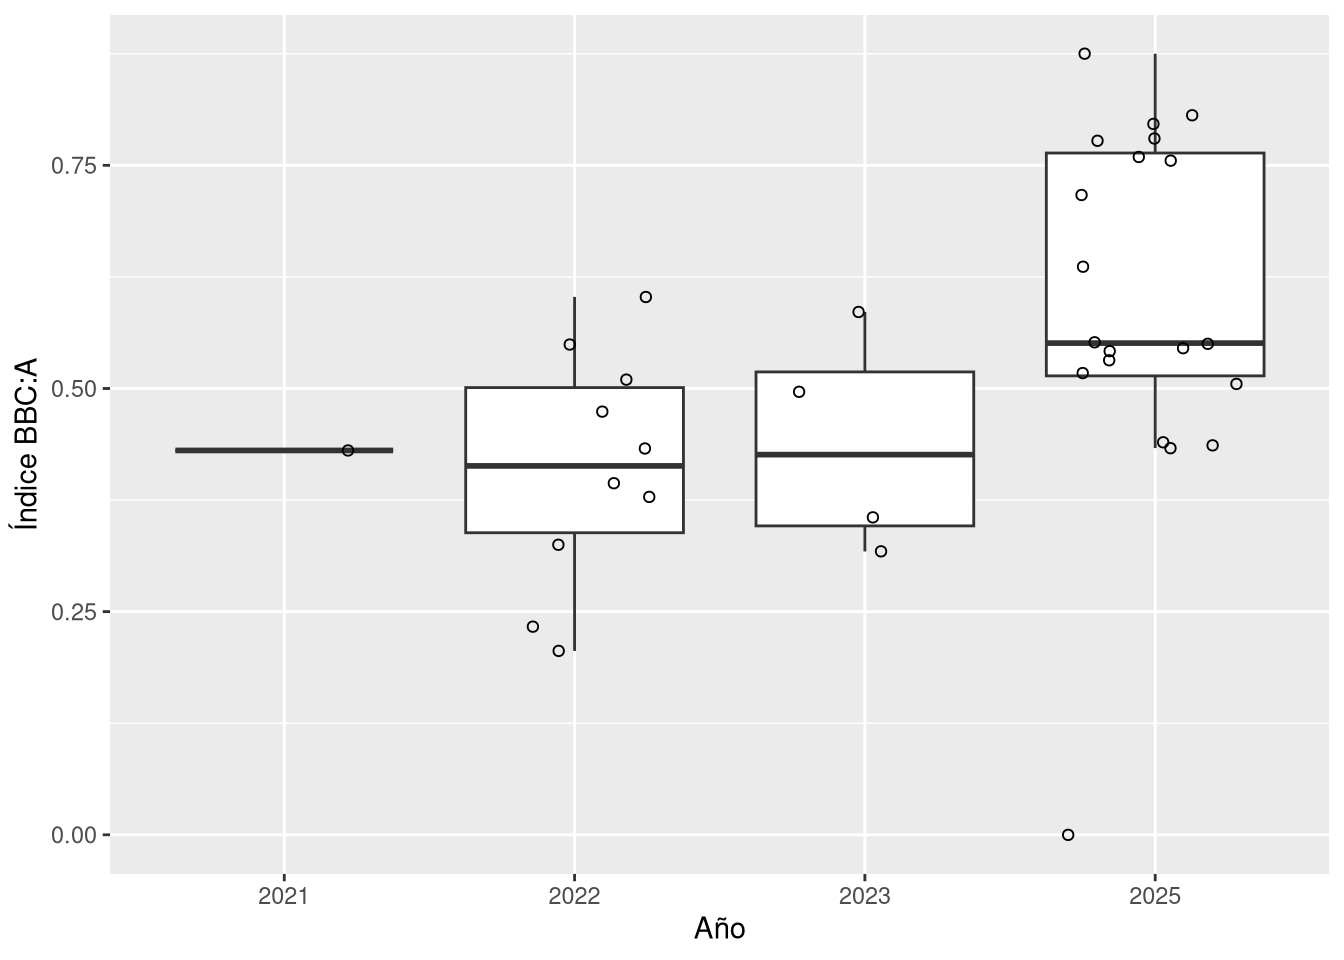
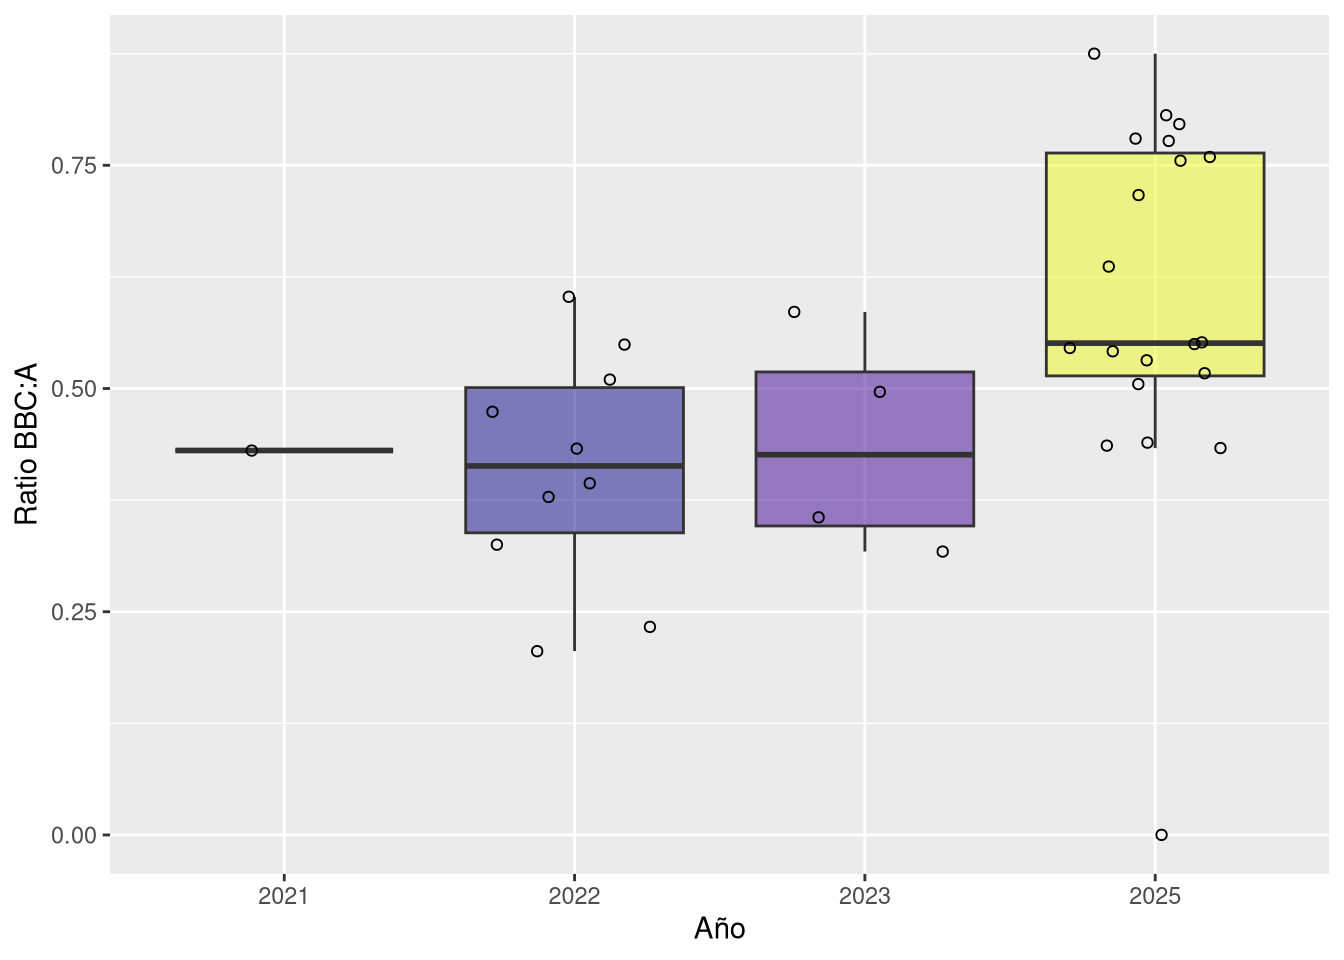
Añadida referencia sobre las ratios microbianas

diff --git a/docs/secuenciacion.html b/docs/secuenciacion.html
@@ -228,7 +228,7 @@ div.csl-indent {
   <ul>
   <li><a href="#vista-general" id="toc-vista-general" class="nav-link active" data-scroll-target="#vista-general">Vista general</a></li>
   <li><a href="#índices-de-biodiversidad" id="toc-índices-de-biodiversidad" class="nav-link" data-scroll-target="#índices-de-biodiversidad">Índices de biodiversidad</a></li>
-  <li><a href="#índices-microbianos" id="toc-índices-microbianos" class="nav-link" data-scroll-target="#índices-microbianos">Índices microbianos</a></li>
+  <li><a href="#ratios-microbianas" id="toc-ratios-microbianas" class="nav-link" data-scroll-target="#ratios-microbianas">Ratios microbianas</a></li>
   <li><a href="#género-enterococcus" id="toc-género-enterococcus" class="nav-link" data-scroll-target="#género-enterococcus">Género <em>Enterococcus</em></a></li>
   <li><a href="#género-escherichia-shigella-e.-coli" id="toc-género-escherichia-shigella-e.-coli" class="nav-link" data-scroll-target="#género-escherichia-shigella-e.-coli">Género <em>Escherichia-Shigella</em> <em>(E. coli)</em></a></li>
   </ul>
@@ -333,9 +333,10 @@ Figura&nbsp;4
 </div>
 </div>
 </section>
-<section id="índices-microbianos" class="level2">
-<h2 class="anchored" data-anchor-id="índices-microbianos">Índices microbianos</h2>
-<p>Siguiendo la anterior versión del proyecto<span class="citation" data-cites="bahiaconfital-old"><sup><a href="#ref-bahiaconfital-old" role="doc-biblioref">2</a></sup></span>, analizamos los índices bacteriales mejor conocidos en la literatura científica para analizar la calidad del agua.</p>
+<section id="ratios-microbianas" class="level2">
+<h2 class="anchored" data-anchor-id="ratios-microbianas">Ratios microbianas</h2>
+<p>Siguiendo la anterior versión del proyecto<span class="citation" data-cites="bahiaconfital-old"><sup><a href="#ref-bahiaconfital-old" role="doc-biblioref">2</a></sup></span>, analizamos las ratios bacteriales (también llamados «índices») que encontramos en la literatura científica en relación a la contaminación fecal del agua.</p>
+<p>El estudio de Wu y colaboradores<span class="citation" data-cites="wu2010"><sup><a href="#ref-wu2010" role="doc-biblioref">3</a></sup></span> afirma que la ratio formado por las Clases <em>Bacilli</em>, <em>Bacteroidia</em>, <em>Clostridia</em> y <em>Alpha</em> (BBC:A) tiende a ser más elevado cuando exiten fuentes de contamianción fecal.</p>
 <div class="cell">
 <div class="cell-output-display">
 <div id="fig-bbca" class="quarto-float quarto-figure quarto-figure-center anchored" width="672">
@@ -612,6 +613,9 @@ Tabla&nbsp;2
 </div>
 <div id="ref-bahiaconfital-old" class="csl-entry" role="listitem">
 <div class="csl-left-margin">2. </div><div class="csl-right-inline">Gómez-Limón Gallardo, V. (2024). <em>Canteras <span>Microbiome</span></em>. <a href="https://veraglg.github.io/bahiaconfital-old/">https://veraglg.github.io/bahiaconfital-old/</a></div>
+</div>
+<div id="ref-wu2010" class="csl-entry" role="listitem">
+<div class="csl-left-margin">3. </div><div class="csl-right-inline">Wu, C. H., Sercu, B., Werfhorst, L. C. V. D., Wong, J., DeSantis, T. Z., Brodie, E. L., Hazen, T. C., Holden, P. A., &amp; Andersen, G. L. (2010). Characterization of <span>Coastal</span> <span>Urban</span> <span>Watershed</span> <span>Bacterial</span> <span>Communities</span> <span>Leads</span> to <span>Alternative</span> <span>Community</span>-<span>Based</span> <span>Indicators</span>. <em>PLOS ONE</em>, <em>5</em>(6), e11285. <a href="https://doi.org/10.1371/journal.pone.0011285">https://doi.org/10.1371/journal.pone.0011285</a></div>
 </div>
 </div></section></div></main> <!-- /main -->
 <script id="quarto-html-after-body" type="application/javascript">
